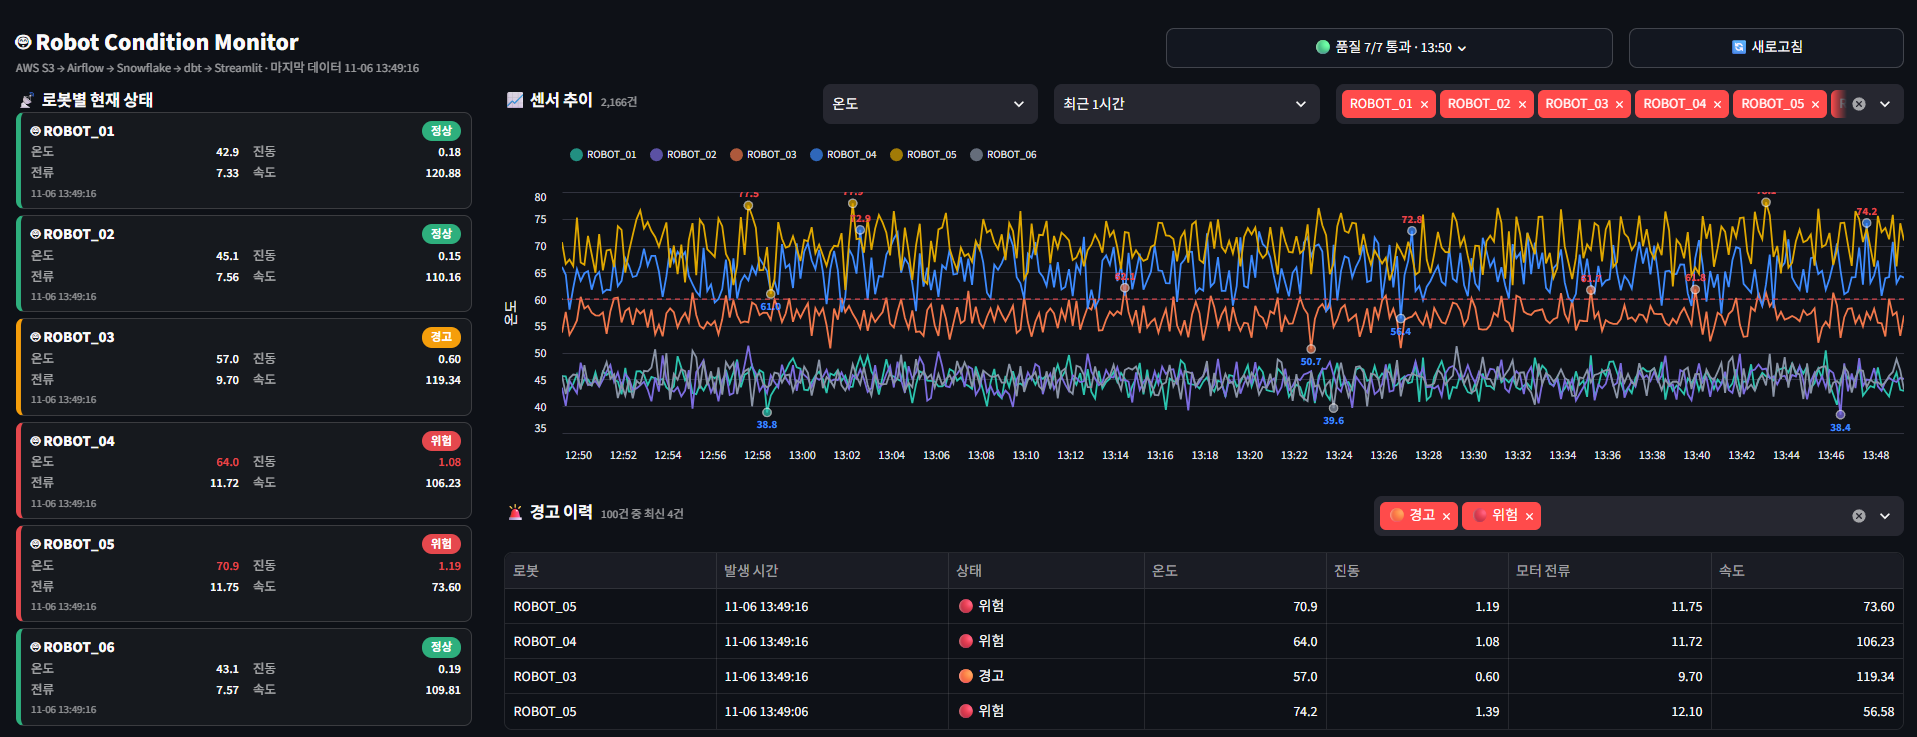
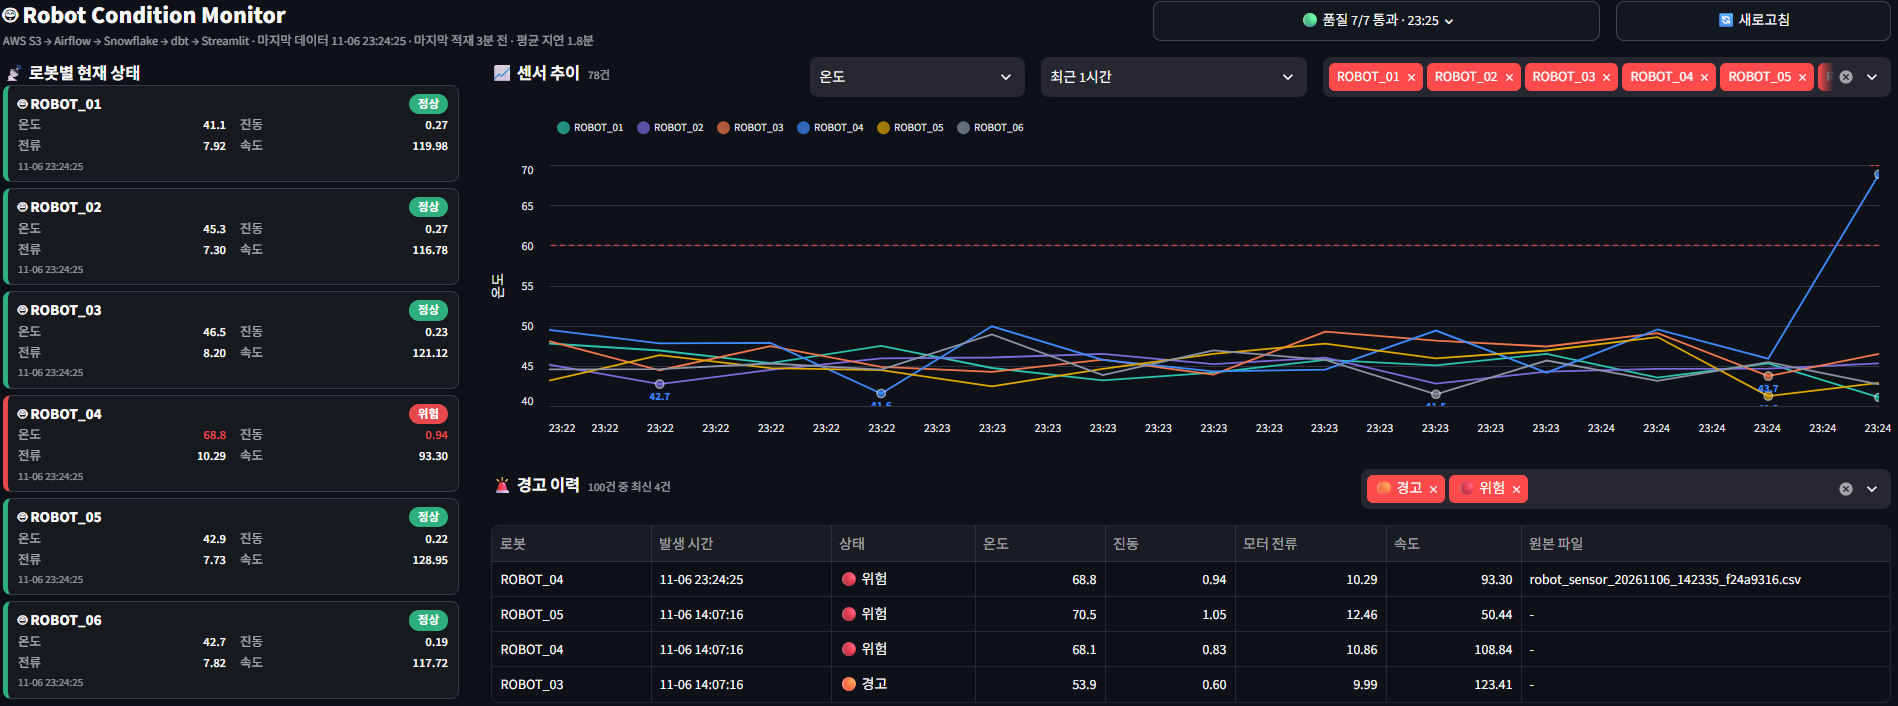
Add data quality section with test results screenshot

diff --git a/README.md b/README.md
@@ -4,6 +4,20 @@
 
 ![대시보드](docs/images/dashboard.png)
 
+## 데이터 품질
+
+dbt 테스트 7개를 매 실행마다 돌리고, 결과를 `DBT_TEST_RESULTS`에 쌓아 대시보드의 품질 배지에서 확인합니다.
+
+<img src="docs/images/data_quality.png" width="480" alt="데이터 품질 테스트 결과">
+
+| 단계 | 검사 | 실패 시 |
+|---|---|---|
+| 원본(staging) | EVENT_ID · ROBOT_ID · EVENT_TIMESTAMP 빈 값 없음 | 경고 (원본 품질 모니터링) |
+| CLEAN | EVENT_ID 빈 값 없음 · 중복 없음, ROBOT_ID 빈 값 없음, STATUS 허용 값만 | 실패 (알림 단계 중단) |
+
+- **데이터 신선도:** 대시보드 제목 아래에 마지막 적재 시각과 평균 적재 지연을 표시하고, 15분 이상 적재가 멈추면 빨간색으로 경고합니다.
+- **추적성:** RAW에 `SOURCE_FILE`(원본 S3 파일)과 `LOADED_AT`(적재 시각)을 기록해, 경고 이력에서 어느 파일에서 온 데이터인지 바로 확인합니다.
+
 ## 아키텍처
 
 EC2 시뮬레이터 → S3 → Airflow → Snowflake(RAW) → dbt(CLEAN + 품질 테스트) → Streamlit / 알람 메일
